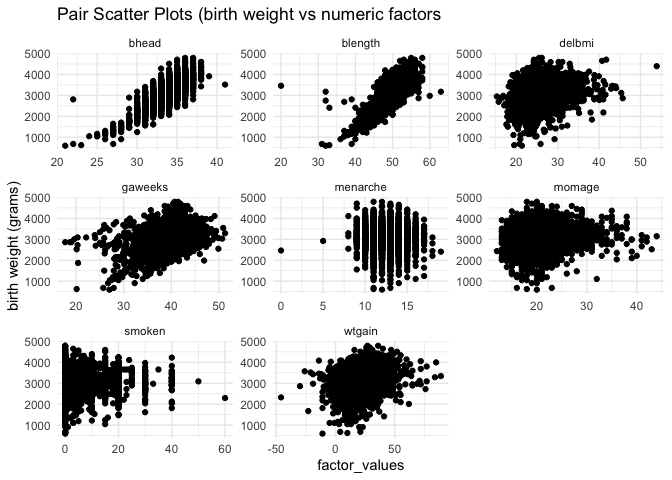
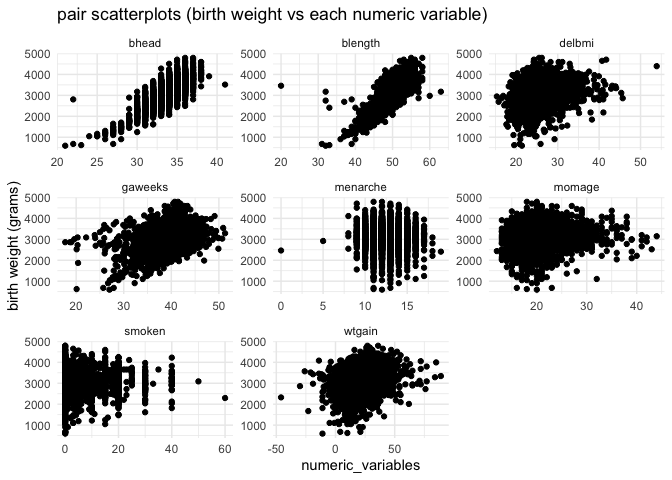
complete problem 1 and 2

Changed region(s): [[0.0625, 0.0, 0.7188, 0.0625], [0.4375, 0.9375, 0.625, 1.0]]

diff --git a/p8105_hw6_ry2417.md b/p8105_hw6_ry2417.md
@@ -1,7 +1,7 @@
 p8105\_hw6\_ry2417
 ================
 Ruiqi Yan
-11/26/2021
+11/28/2021
 
 ## Problem 1
 
@@ -52,16 +52,14 @@ children_df <-
       Black = "2", 
       Asian = "3", 
       Puerto_Rican = "4", 
-      Other = "8",
-      Unknown = "9"
+      Other = "8"
     ),
     malform = fct_recode(factor(malform), absent = "0", present = "1"),
     mrace = fct_recode(factor(mrace),
       White = "1", 
       Black = "2", 
       Asian = "3", 
-      Puerto_Rican = "4", 
-      Other = "8"
+      Puerto_Rican = "4"
     )
   )
 ```
@@ -87,12 +85,12 @@ children_df <-
 children_df %>% 
   select(bwt, bhead, blength, menarche, gaweeks, momage, wtgain, smoken, delbmi) %>% 
   pivot_longer(cols = -bwt, 
-         names_to = "var", values_to = "factor_values") %>% 
-  ggplot(aes(y = bwt, x = factor_values)) +
+         names_to = "var", values_to = "numeric_variables") %>% 
+  ggplot(aes(y = bwt, x = numeric_variables)) +
   geom_point() +
   facet_wrap(.~var, scales = "free") +
   labs(y = "birth weight (grams)",
-      title = "Pair Scatter Plots (birth weight vs numeric factors")
+      title = "pair scatterplots (birth weight vs each numeric variable)")
 ```
 
 ![](p8105_hw6_ry2417_files/figure-gfm/unnamed-chunk-4-1.png)<!-- -->
@@ -117,9 +115,9 @@ children_df <-
   )
 ```
 
-For the categorical data, I use look over the distributions of birth
-weight among different levels of each categorical variable of interest
-to check if it is necessary to include the variable.
+For the categorical data, I use the distributions of birth weight among
+different levels of each categorical variable to check if it is
+necessary to include the variable.
 
 ``` r
 children_df %>% 
@@ -127,7 +125,7 @@ children_df %>%
   pivot_longer(cols = -bwt, 
          names_to = "var", values_to = "factor_levels") %>% 
   ggplot(aes(y = bwt, x = factor_levels, factor_levels)) +
-  geom_violin(alpha = .3) +
+  geom_boxplot(alpha = .3) +
   facet_wrap(.~var, scales = "free") +
   labs(y = "birth weight (grams)",
       title = "distribution of birth weight among different levels of categorical varaibles")
@@ -153,7 +151,12 @@ children_df %>%
   add_predictions(my_model) %>% 
   add_residuals(my_model) %>% 
   ggplot(aes(x = pred, y = resid)) +
-  geom_point()
+  geom_point() +
+  labs(
+    title = "scatterplot of residual and prediction of my model",
+    x = "predicted birth weight (grams)",
+    y = "residual"
+  )
 ```
 
 ![](p8105_hw6_ry2417_files/figure-gfm/unnamed-chunk-8-1.png)<!-- -->
@@ -176,6 +179,7 @@ model_3 <- lm(bwt ~ bhead*blength*babysex, data = children_df)
 Make the comparisons in terms of the cross-validated prediction error;
 
 ``` r
+set.seed(1200)
 cv_df <- crossv_mc(children_df, 500, test = .2) %>% 
   mutate(
     test = map(test, as_tibble)
@@ -197,12 +201,103 @@ cv_df <-
 
 cv_df %>% 
   pivot_longer(cols = starts_with("rmse"),
-               names_to = "model_type",
+               names_to = "model",
                values_to = "rmse",
                names_prefix = "rmse_") %>% 
-  mutate(model = fct_inorder(model_type)) %>%
-  ggplot(aes(x = model_type, y = rmse, fill = model_type)) +
-  geom_violin(alpha = .3)
+  mutate(model = fct_reorder(model, rmse)) %>%
+  ggplot(aes(x = model, y = rmse, fill = model)) +
+  geom_violin(alpha = .3) +
+  labs(y = "rmse",
+      title = "distribution of root mean sqaured error of three models")
 ```
 
 ![](p8105_hw6_ry2417_files/figure-gfm/unnamed-chunk-11-1.png)<!-- -->
+
+The plot compared the distribution of the prediction error of three
+models. Model using length at birth and gestational age as predictors
+has the highest prediction error and much higher than the other two
+models, implying worse fitting of this model among the three. My model
+has the lowest prediction error among the three models. It fits a bit
+better than the one using head circumference, length, sex, and all
+interactions.
+
+## Problem 2
+
+``` r
+weather_df <-
+  rnoaa::meteo_pull_monitors(
+    c("USW00094728"),
+    var = c("PRCP", "TMIN", "TMAX"), 
+    date_min = "2017-01-01",
+    date_max = "2017-12-31") %>%
+  mutate(
+    name = recode(id, USW00094728 = "CentralPark_NY"),
+    tmin = tmin / 10,
+    tmax = tmax / 10) %>%
+  select(name, id, everything())
+```
+
+Using bootstrapping to estimate the distribution of the *r̂*<sup>2</sup>
+and log (*β̂*<sub>0</sub> \* *β̂*<sub>1</sub>) of the regression that tmax
+against tmin
+
+``` r
+set.seed(1000)
+bootstrap_df <- 
+  weather_df %>% 
+  bootstrap(n = 5000, id = "strap_number") %>% 
+  mutate(
+    linear_models = map(.x = strap, ~lm(tmax ~ tmin, data = .x))
+  )
+
+rsquare_df <- 
+  bootstrap_df %>% 
+  mutate(
+    glance_results = map(linear_models, broom::glance),
+    
+  ) %>% 
+  unnest(glance_results) %>% 
+  select(strap_number, r.squared)
+
+log_beta_df <- 
+  bootstrap_df %>% 
+  mutate(
+    tidy_results = map(linear_models, broom::tidy)
+  ) %>% 
+  unnest(tidy_results) %>% 
+  group_by(strap_number) %>% 
+  mutate(
+  log_beta = log(prod(estimate))
+  ) %>% 
+  filter(term == "tmin") %>% 
+  select(strap_number, log_beta)
+```
+
+``` r
+rsquare_df %>% 
+  ggplot(aes(x = r.squared)) +
+  geom_density() +
+  labs(title = "distribution of estimated r squared of 5000 bootstrap samples")
+```
+
+![](p8105_hw6_ry2417_files/figure-gfm/unnamed-chunk-14-1.png)<!-- -->
+
+The distribution of *r̂*<sup>2</sup> has a flat peak and is symmetric. It
+centers around 0.9115262 with variance about 7.349972^{-5}. The 95%
+confidence interval of *r̂*<sup>2</sup> is between \[0.8940297,
+0.9273455\].
+
+``` r
+log_beta_df %>% 
+  ggplot(aes(x = log_beta)) +
+  geom_density() +
+  labs(title = "distribution of log(b0*b1) of 5000 bootstrap samples")
+```
+
+![](p8105_hw6_ry2417_files/figure-gfm/unnamed-chunk-15-1.png)<!-- -->
+
+The distribution of log (*β̂*<sub>0</sub> \* *β̂*<sub>1</sub>) looks
+bell-shaped and symmetric. It centers around 2.0122845 with variance
+about 5.582663^{-4}. The 95% confidence interval of
+log (*β̂*<sub>0</sub> \* *β̂*<sub>1</sub>) is between \[1.9654539,
+2.0577241\].
